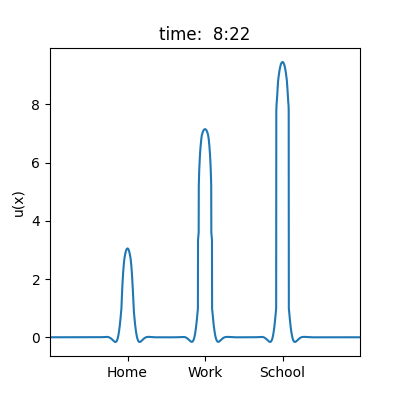
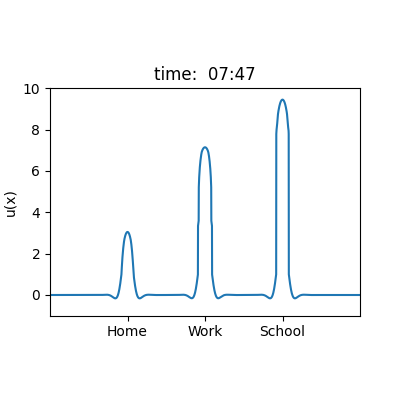
simplified time

diff --git a/driving_routine_dnf.py b/driving_routine_dnf.py
@@ -132,20 +132,15 @@ if desired_blueprint:
     # Set message to empty string
     message = []
 
+    # Set the time of day in minutes (420 -> 7AM)
+    time_day = 420
+
     for index, waypoint in enumerate(route):
+
         # Move the car to the current waypoint
         vehicle.set_transform(waypoint[0].transform)
 
-        # day onset time in minutes (420 -> 7AM)
-        day_onset = 420
-
-        # Calculate the elapsed time
-        elapsed_time = time.time() - time_start + day_onset
-
-        elapsed_time_minutes = elapsed_time
-
-        # Format elapsed time as HH:MM
-        elapsed_time_formatted = str(datetime.timedelta(minutes=elapsed_time_minutes))
+        time_day += .015
 
         # Check if the vehicle has arrived at any of the destinations
         for destination_name, destination_location in destinations.items():
@@ -154,7 +149,7 @@ if desired_blueprint:
                     if destination_name in destinations_copy.keys():
                         print(f"You arrived at {destination_name}")
                         message = f"You arrived at {destination_name}"
-                        plot_activity_with_message(u_field, field_pars, elapsed_time_formatted, message, fig=fig)
+                        plot_activity_with_message(u_field, field_pars, time_day, message, fig=fig)
                         plt.clf()
                         del destinations_copy[destination_name]
                         message = []
@@ -177,7 +172,7 @@ if desired_blueprint:
         f_hat = np.fft.fft(f)
         conv = dx * np.fft.ifftshift(np.real(np.fft.ifft(f_hat * w_hat)))
         h_u = h_u + dt / tau_h * f  # threshold adaptation
-        if input_on and elapsed_time > (day_onset + 5):
+        if input_on and time_day > 421:
             input = input_shape[0] * np.exp(-0.5 * (x - input_position) ** 2 / input_shape[1] ** 2)
             # print(f"input on at {input_position}")
         else:
@@ -187,12 +182,12 @@ if desired_blueprint:
 
         # plot the field activity u_field for each 10th waypoint
         if (index % 10 == 0) or message:
-            plot_activity_with_message(u_field, field_pars, elapsed_time_formatted, message, fig=fig)
+            plot_activity_with_message(u_field, field_pars, time_day, message, fig=fig)
             # clear the figure so that the next time step can be plotted
             plt.clf()
 
         # Sleep for a short duration
-        time.sleep(0.001)
+        time.sleep(0.0001)
 
         # Update the previous waypoints list
         previous_waypoints.append(waypoint)
@@ -203,7 +198,7 @@ if desired_blueprint:
 
     time.sleep(5)
 
-    plot_activity_at_time_step(u_field, field_pars, elapsed_time_formatted, fig=fig)
+    plot_activity_with_message(u_field, field_pars, time_day, fig=fig)
     fig.savefig('routine_memory.png')
     plt.clf()
 

diff --git a/src/plotting.py b/src/plotting.py
@@ -25,7 +25,16 @@ def plot_activity_with_message(activity, field_pars, elapsed_time, message=None,
     plt.ylabel('u(x)')
 
     # Update the title with formatted elapsed time
-    plt.title(f'time:  {elapsed_time[:4]}')
+    # plt.title(f'time:  {elapsed_time[:4]}')
+
+    # Calculate hours and minutes
+    hours = int(elapsed_time // 60)
+    minutes = int(elapsed_time % 60)
+
+    # Format the result
+    # formatted_time = f"{hours:02d}:{minutes:02d}"
+
+    plt.title(f'time:  {hours:02d}:{minutes:02d}')
 
     plt.xticks([-60, -30, 0], ["Home", "Work", "School"])
 
